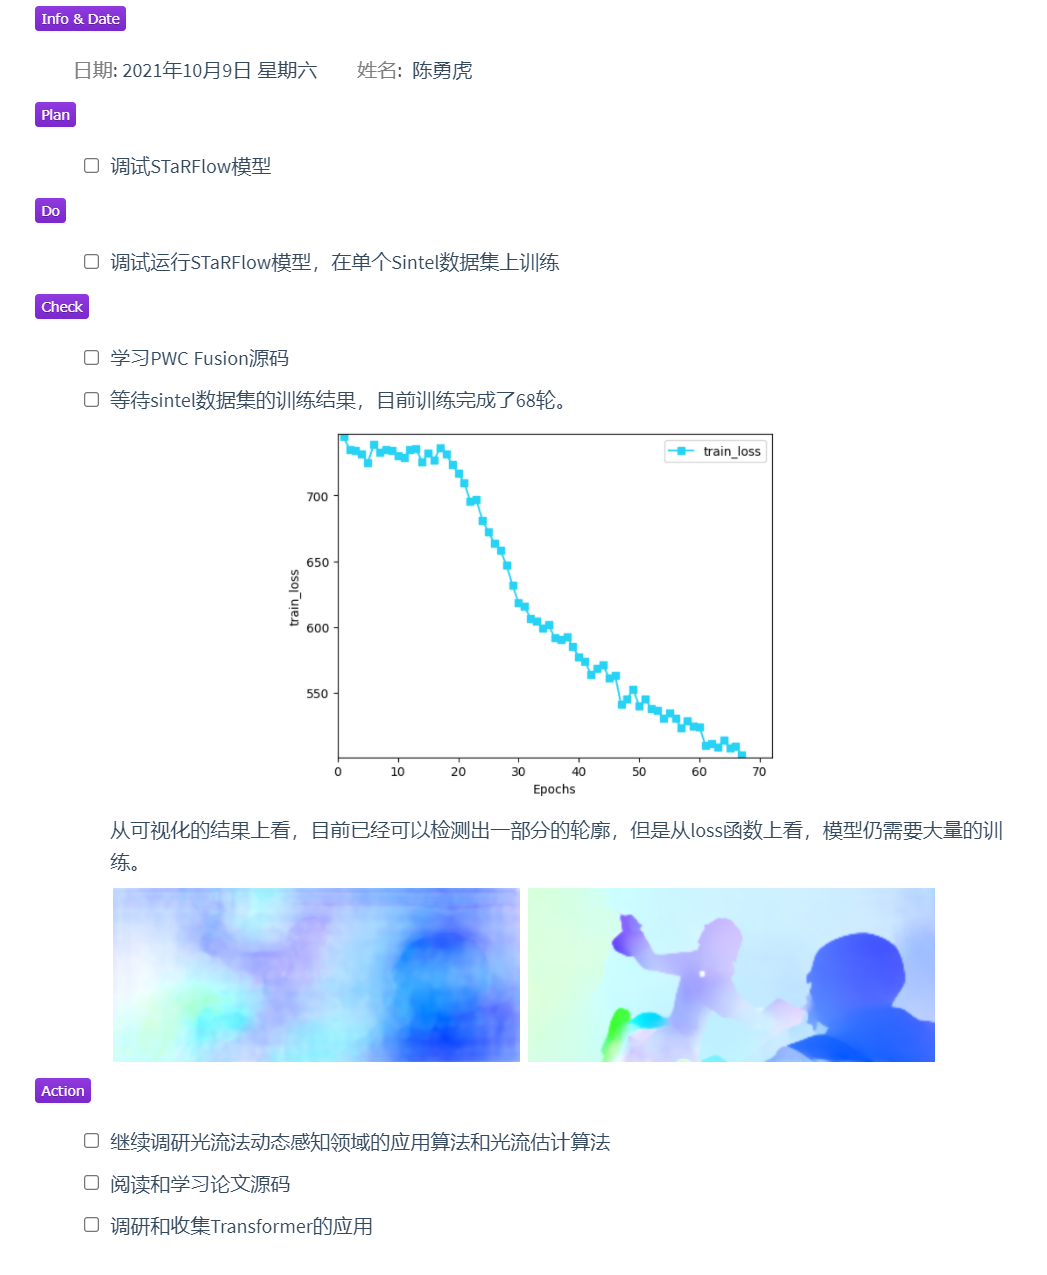
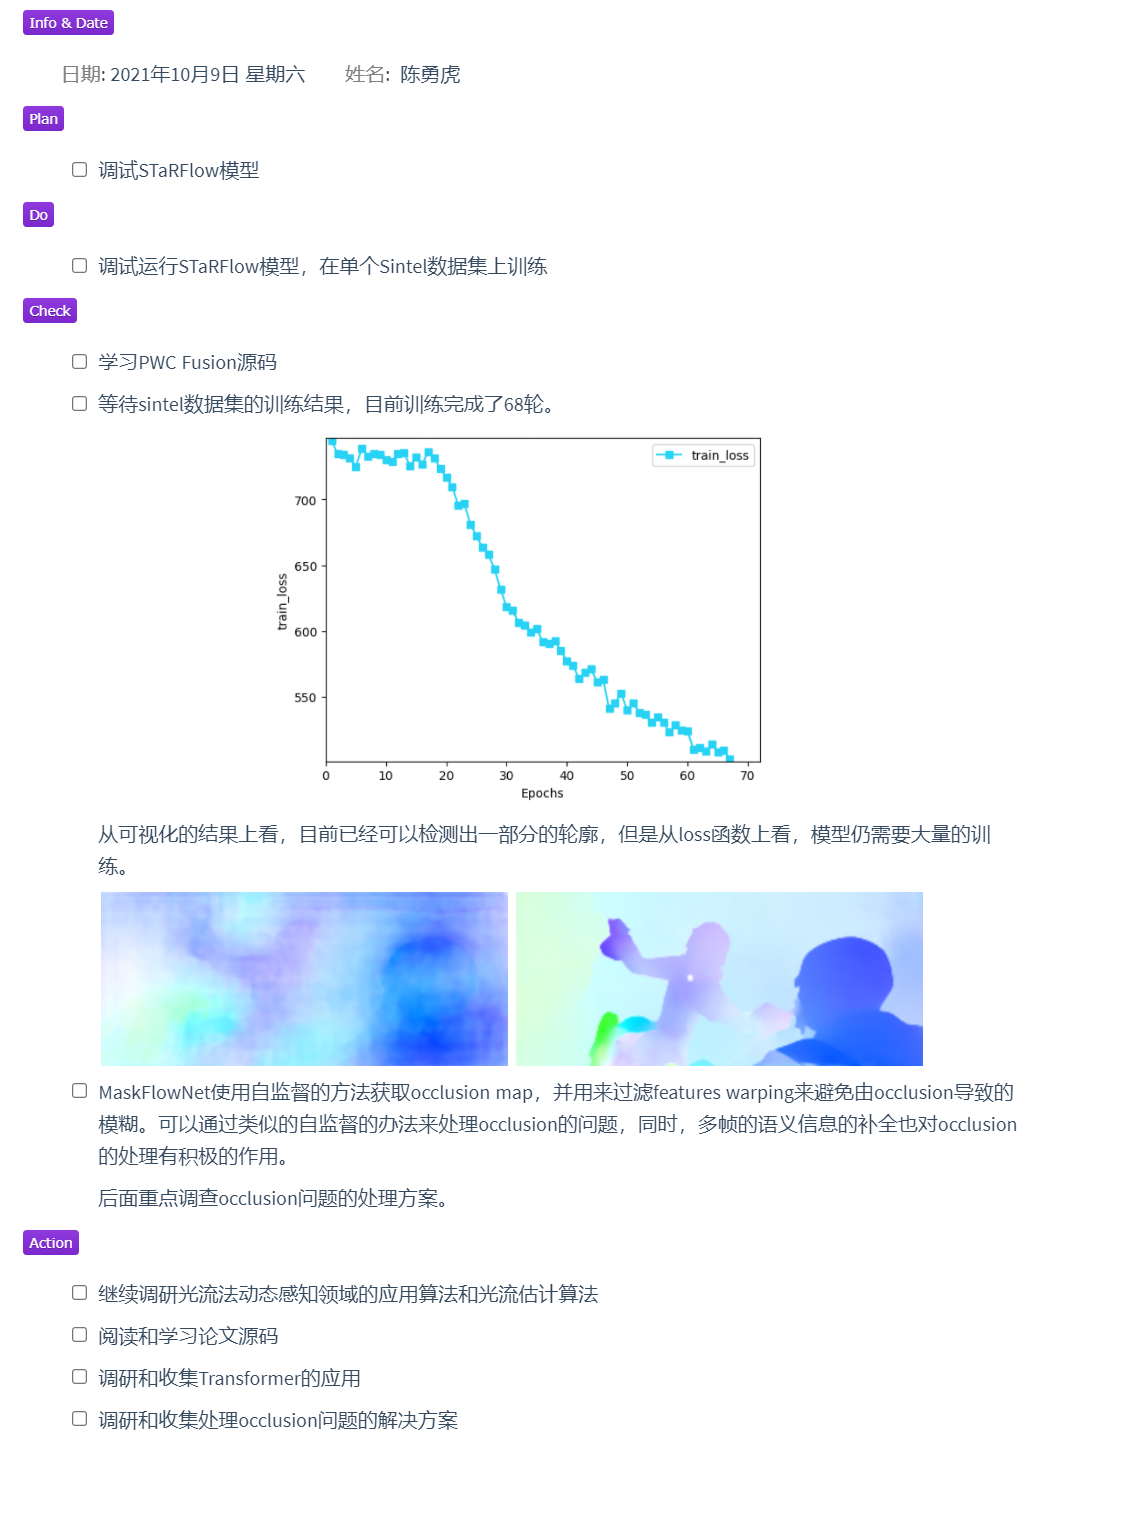
windows 10.11

Changed region(s): [[0.0, 0.0, 0.9475, 0.9788], [0.6418, 0.3365, 0.7335, 0.3671], [0.5807, 0.2753, 0.6724, 0.3059]]

diff --git a/Clock-in/21-10-10.md b/Clock-in/21-10-10.md
@@ -1,0 +1,45 @@
+<img src = "https://img.shields.io/badge/Info%20%26%20Date-blueviolet" align="left">
+
+<font color=gray size=3>日期</font>: 2021年10月11日 星期一        <font color=gray size=3>姓名</font>:  陈勇虎   
+
+<img src = "https://img.shields.io/badge/-Plan-blueviolet" align="left">
+
+- [ ] 阅读论文《Learning to Estimate Hidden Motions with Global Motion Aggregation》[1]
+
+<img src = "https://img.shields.io/badge/-Do-blueviolet" align="left">
+
+- [ ] 阅读论文《Learning to Estimate Hidden Motions with Global Motion Aggregation》
+
+<img src = "https://img.shields.io/badge/-Check-blueviolet" align="left">
+
+- [ ] GMA是基于RAFT框架提出的模型，编码器端采用和RAFT一致的残差网络来实现。文章提出了使用Transformer来获取帧内的self-similarity。
+
+  <img src = "./images/GMA3.png" align="center" style="width:95%">
+  
+  与传统的Transformer不一致的地方在于，如下所示。Q，K矩阵来自提取的2D上下文特征，而V矩阵来自提取的运动特征。因此这里的attention并不算是传统的self-attention。
+  
+  <img src = "./images/GMA4.png" align="center" style="width:95%">
+
+<img src = "https://img.shields.io/badge/-Action-blueviolet" align="left">
+
+- [ ] 继续调研光流法动态感知领域的应用算法和光流估计算法
+- [ ] 阅读和学习论文源码
+- [ ] 调研和收集Transformer的应用
+- [ ] 调研和收集处理occlusion问题的解决方案
+
+<img src = "https://img.shields.io/badge/-Reference-blueviolet" align = "left">
+
+1. Jiang, Shihao, Dylan Campbell, Yao Lu, Hongdong Li, and Richard Hartley. 2021. “Learning to Estimate Hidden Motions with Global Motion Aggregation.” *ArXiv:2104.02409 [Cs]*, July. http://arxiv.org/abs/2104.02409.
+
+
+
+
+
+
+
+
+
+
+
+
+

diff --git a/Clock-in/21-10-9.md b/Clock-in/21-10-9.md
@@ -22,11 +22,16 @@
 
   <img src = "./images/STaRFlow-10-9.3.png" align="center" style="width:45%"><img src = "./images/STaRFlow-10-9.4.png" align="center" style="width:45%">
 
+- [ ] MaskFlowNet使用自监督的方法获取occlusion map，并用来过滤features warping来避免由occlusion导致的模糊。可以通过类似的自监督的办法来处理occlusion的问题，同时，多帧的语义信息的补全也对occlusion的处理有积极的作用。
+
+  后面重点调查occlusion问题的处理方案。
+
 <img src = "https://img.shields.io/badge/-Action-blueviolet" align="left">
 
 - [ ] 继续调研光流法动态感知领域的应用算法和光流估计算法
 - [ ] 阅读和学习论文源码
 - [ ] 调研和收集Transformer的应用
+- [ ] 调研和收集处理occlusion问题的解决方案
 
 
 

diff --git a/多帧光流融合.md b/多帧光流融合.md
@@ -1,0 +1,63 @@
+# 多帧光流融合
+
+## 定义
+1. 光流(optical flow)
+
+2. 由粗到细(coarse-to-fine)
+
+3. 端到端(end-to-end)
+
+4. 相关代价体(cost correlation volume)
+
+5. 数据集
+
+   
+
+## CNN光流估计
+
+
+
+
+
+## 多帧光流估计
+
+
+
+## Occlusion处理
+
+
+
+
+
+
+
+
+
+## 比较重要的几篇论文
+
+* SelfFlow
+* PWC-Fusion(MFF)
+* ContinualFLow
+* ARFlow-mv(TODO)
+* STaRFlow
+
+
+
+
+
+
+
+
+
+
+
+
+
+
+
+
+
+
+
+
+

diff --git a/Summary/Multi-Frame-Optical-Flow.md b/Summary/Multi-Frame-Optical-Flow.md
@@ -1,15 +1,5 @@
 # Optical Flow
 
-## Definition
-
-1. 光流(optical flow)
-2. 由粗到细(coarse-to-fine)
-3. 端到端(end-to-end)
-4. 相关代价体(cost correlation volume)
-5. 
-
-
-
 ## Two-Frame Fashion
 
 ### RAFT (ECCV 2020 best)

diff --git a/Summary/Codes.md b/Summary/Codes.md
@@ -1,0 +1,28 @@
+# Python深度学习
+
+## 常用代码段
+
+### Torch
+
+
+
+
+
+
+
+## 第三方库及函数使用
+
+### PyTorch
+
+
+
+### Numpy
+
+
+
+### TODO
+
+
+
+
+

diff --git a/Summary/PapersNotes/STaRFlow(ICPR 2020).md b/Summary/PapersNotes/STaRFlow(ICPR 2020).md
@@ -4,5 +4,15 @@
 
 <img src = "./../images/STaRFlow1.png" align="center" style="width:90%">
 
-## 概述
+## 相关工作
+
+### 多帧光流估计
+
+
+
+
+
+
+
+
 
